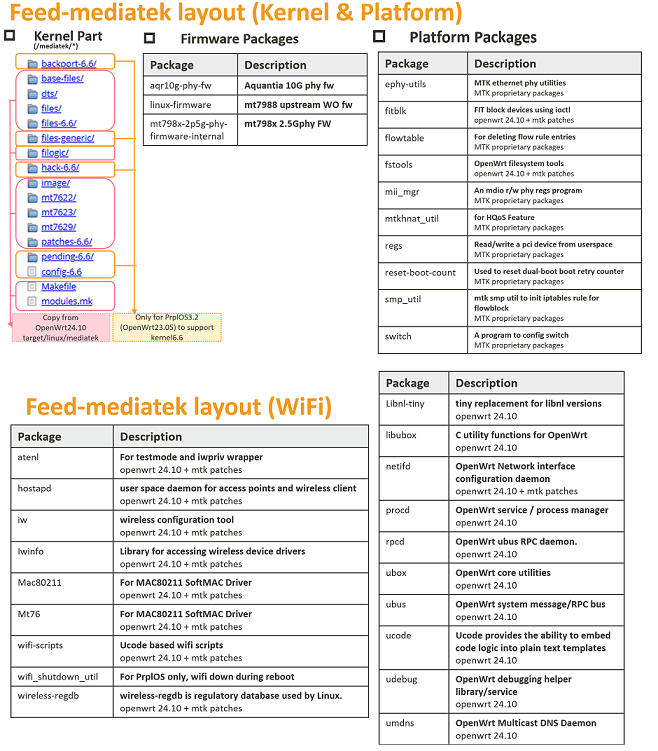
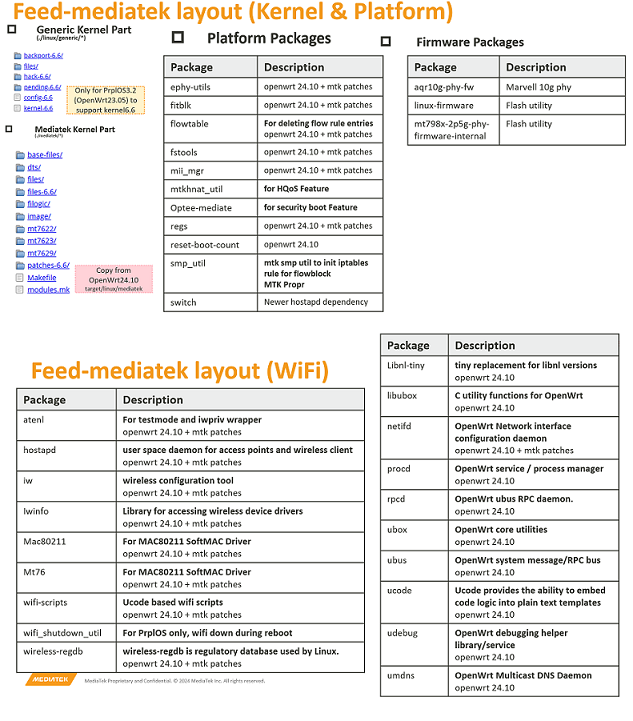
[prpl][feed-mediatek][WiFi7][Update Readme and MP4.1 WiFi critical patches]
[Description]
Update Readme and MP4.1 WiFi critical patches

Kernel6.6/MT76:
0112-cp-mtk-mt76-mt7996-init-max_ap_assoc_sta-to-set-maximum.patch

Kernel6.6/Hostapd:
0218-cp-mtk-hostapd-Air-Monitor-support-in-hostapd-by-ven.patch

[Release-log]
N/A

diff --git a/README.md b/README.md
@@ -74,7 +74,28 @@ feeds:
 ```
 Note: to include extra developer tools in the final image (tcpdump, strace, gdb), you can add "debug" as an extra profile while invoking the gen_config.py script.
 
-#### 5. Build prplOS image.
+#### 5. Secure Boot Related Changes (Skip this feature if you don't need it)
+Add secure boot related tools and scripts:
+
+```bash
+cp -r ./prplos-feed-mediatek/autobuild/prplos/secure/tools/* ./tools
+cp -r ./prplos-feed-mediatek/autobuild/prplos/secure/scripts/* ./scripts
+```
+
+Apply secure SDK patches:
+
+```bash
+for patch in prplos-feed-mediatek/autobuild/prplos/secure/patches-base/*.patch; do patch -p1 < "$patch"; done
+```
+
+Apply secure feeds patches:
+
+```bash
+for patch in prplos-feed-mediatek/autobuild/prplos/secure/patches-feeds/*.patch; do patch -p1 < "$patch"; done
+```
+
+
+#### 6. Build prplOS image.
 ```bash
 make -j32
 ```
@@ -90,11 +111,12 @@ These can be used to upgrade the image on your target using uboot or sysupgrade.
 ![feed_mediatek_layout](feed_mtk_layout.png)
 
 ## Feed-Mediatek Prpl Release
-- Date: 2025-05-09
+- Date: 2025-06-10
 - Modified By: Evelyn Tsai ([email redacted])
 ### Release History
 | Date       | OpenWrt Source   |
 |------------|------------------|
+| 2025.06.10 | Add Filogic880 secure boot support |
 | 2025.05.09 | Sync from [OpenWrt WiFi7 MP4.1 Release](https://git01.mediatek.com/plugins/gitiles/openwrt/feeds/mtk-openwrt-feeds/+/refs/heads/master/autobuild/unified/#filogic-880_860-wifi7-mp4_1-release-2025_04_25) |
 | 2025.03.27 | Sync from [OpenWrt WiFi7 Beta Release](https://git01.mediatek.com/plugins/gitiles/openwrt/feeds/mtk-openwrt-feeds/+/refs/heads/master/autobuild/unified/#filogic-880-wifi7-beta-release-2025_03_07) |
 
@@ -104,7 +126,7 @@ These can be used to upgrade the image on your target using uboot or sysupgrade.
 | 6.34.x | Support Single hostapd process but NOT support MLO config |
 | 7.6.x | support AP MLD, STA MLD, but NOT support WPS onboarding through MLD |
 
-Please note that the latest pWHM v7.6.14 still has issues detecting the MLD capability of wiphy.
+Please note that the latest pWHM v7.6.19 still has issues detecting the MLD capability of wiphy.
 And also the WPS over MLO onboarding. You need to apply this patch manually to set up AP MLD
 
 ```
@@ -167,4 +189,4 @@ These patches do not guarantee quality and have only been verified to pass basic
 For a complete pWHM integration that meets commercial quality standards, please ensure it is performed by a third-party software integration vendor.
 
 ## Roadmap
-Next Revision Release: around 2025/6/M for secure boot
+Next Revision Release: around late September 2025 and for PrplOS4.1 and will add support for Filogic850 platform.